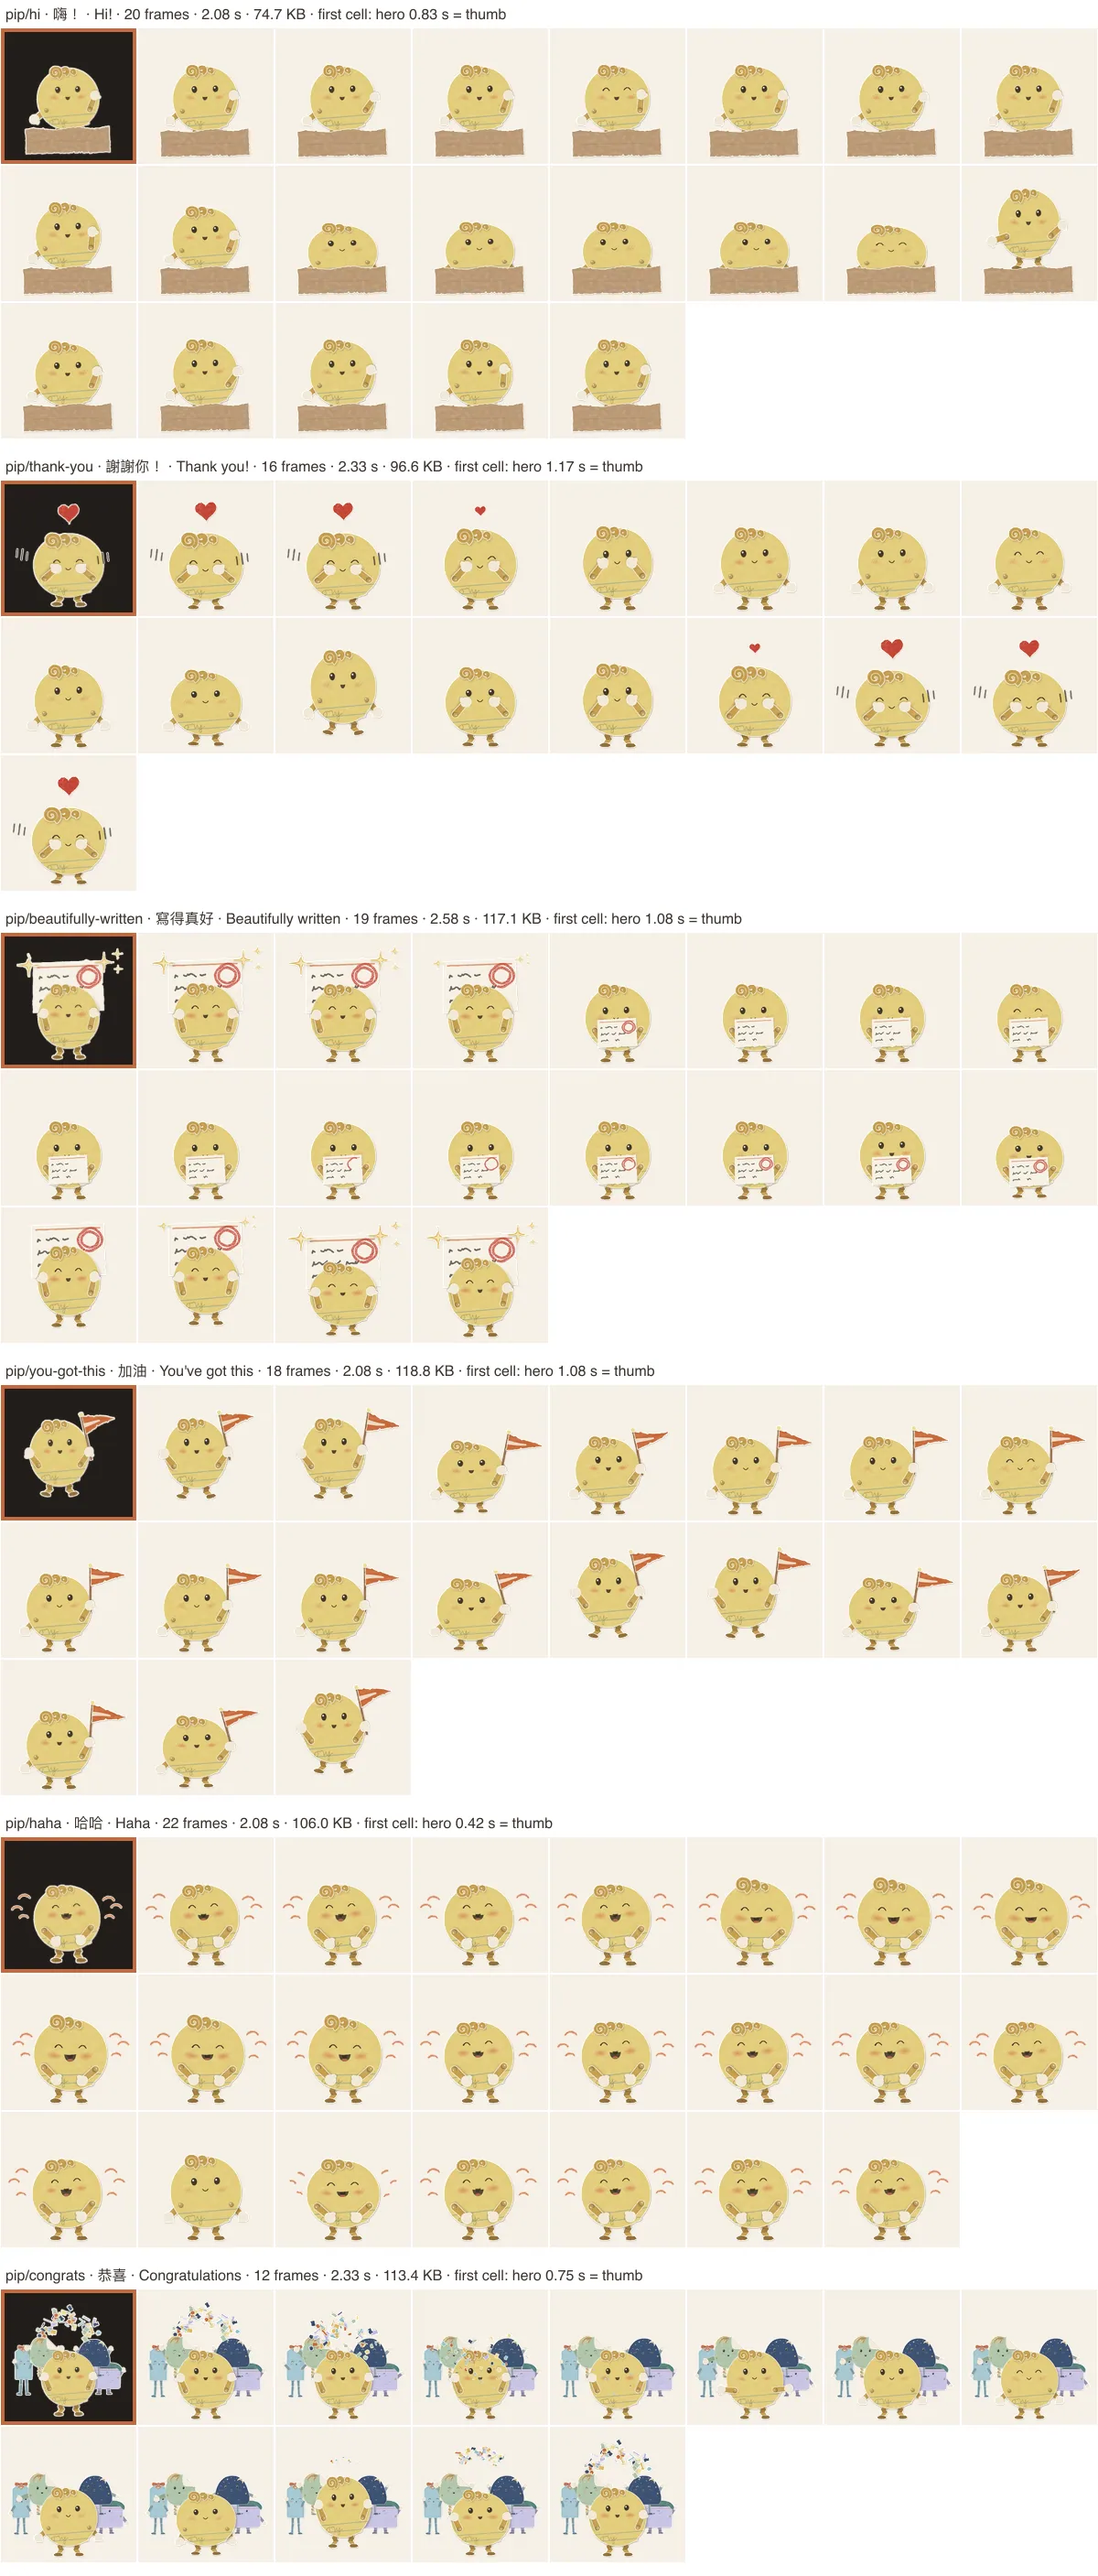
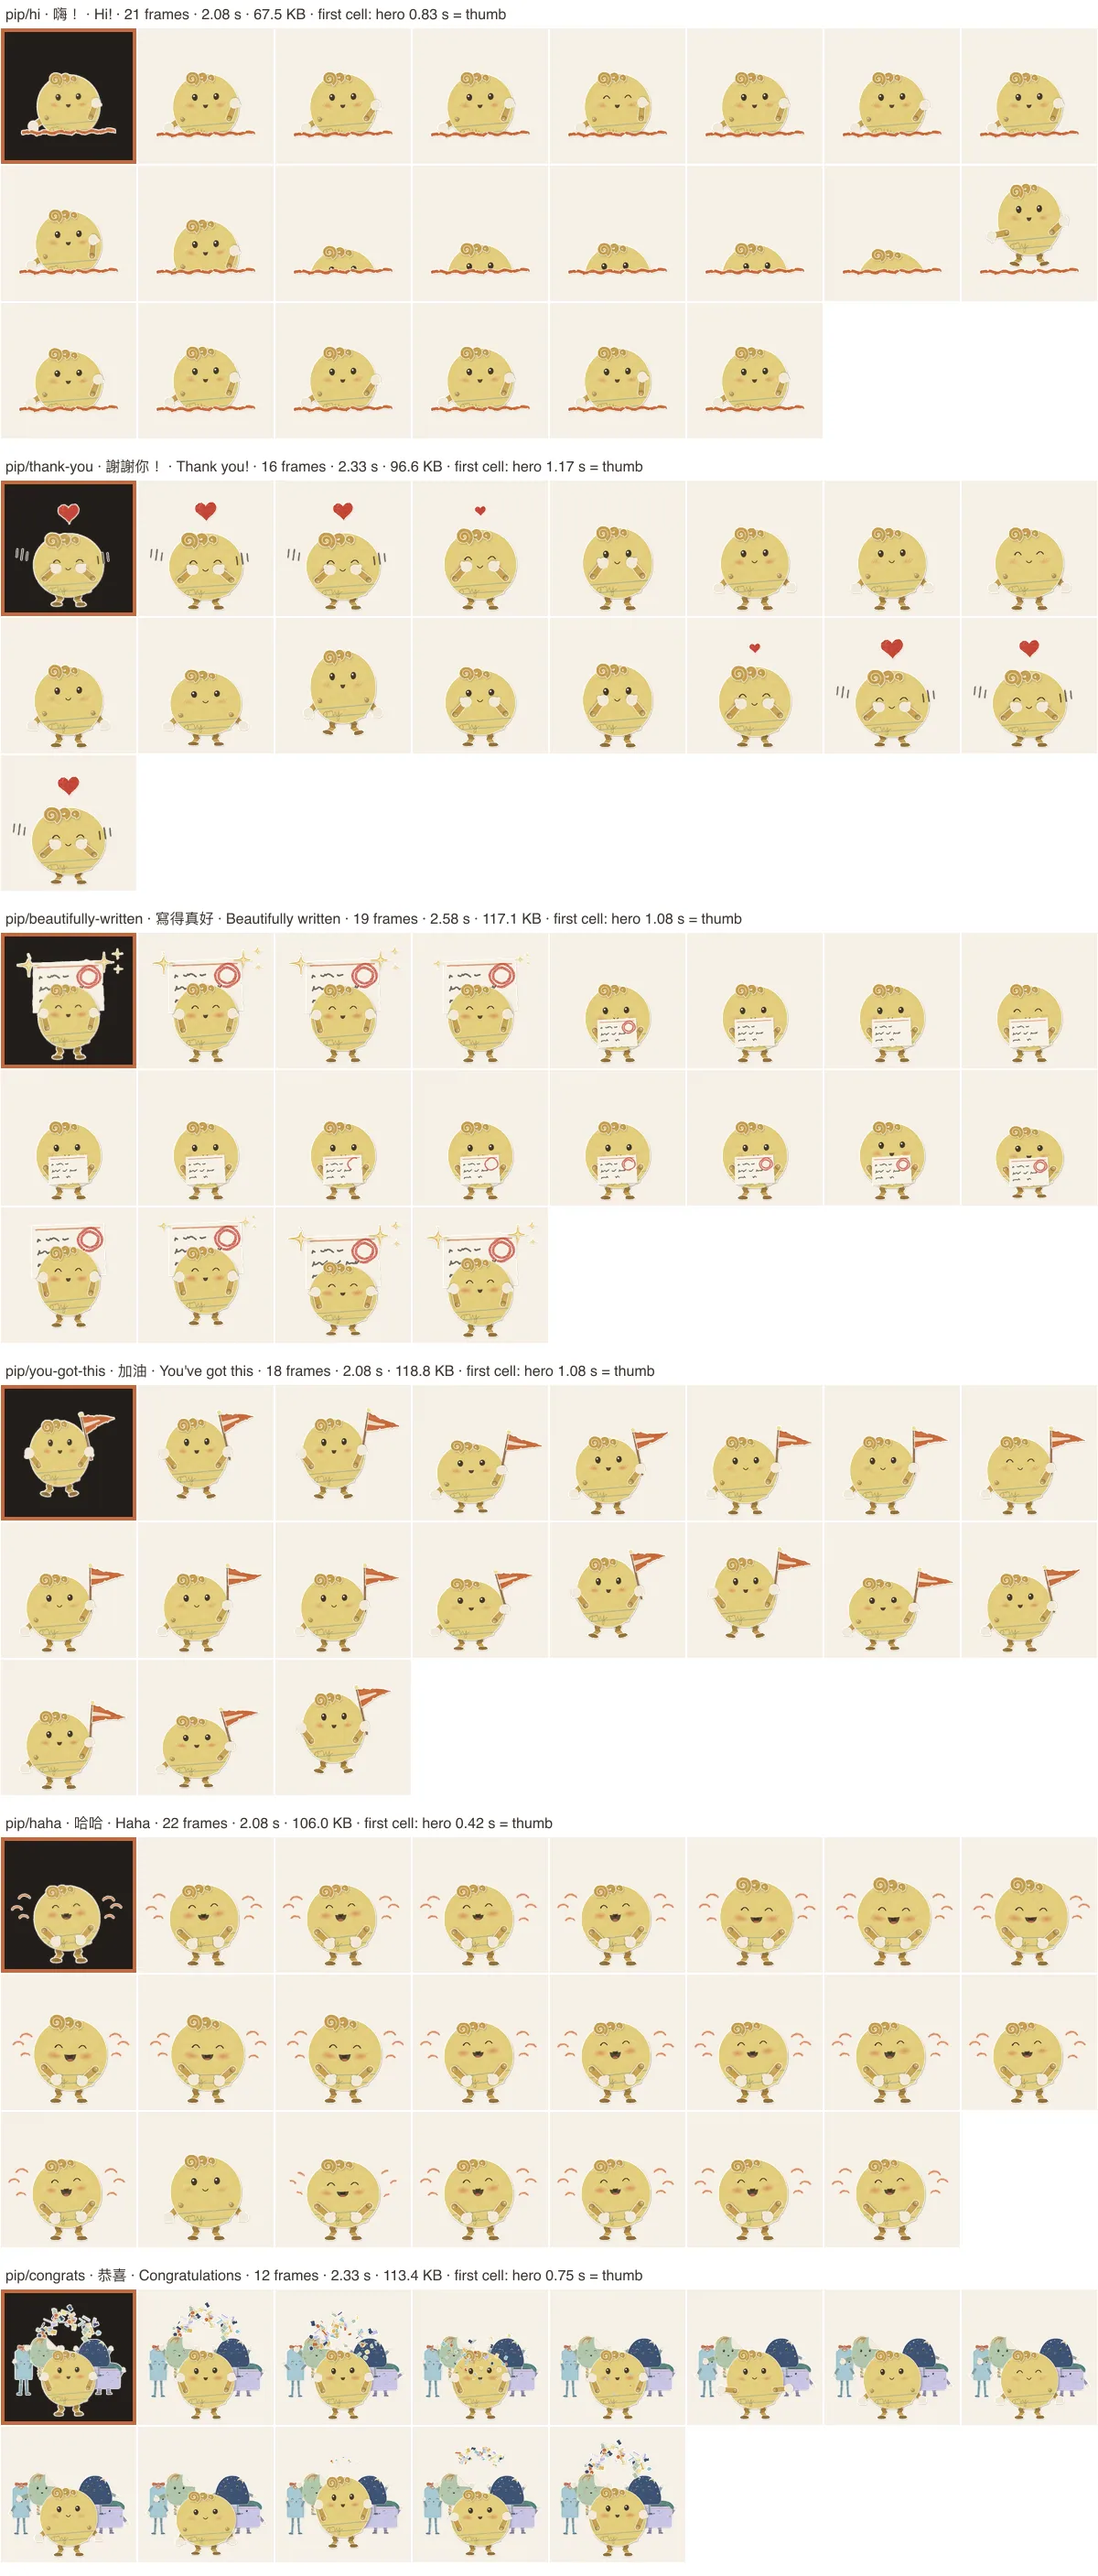
fix: 🌊 點點's 嗨！ rises out of the brand's wavy line instead of hiding behind a block
The owner asked for the cover to be much lower and smaller, or for 點點 to come out from behind a
line. Both were tried at 72 and 128 px on the day and night papers. A narrow low kraft strip hides
nothing: 點點 just stands on a little brick, and the pop-up is lost. The line keeps the pop-up: the
brand's wavy line, a thin strip of terracotta paper (penWavePoints' rhythm), with 點點 clipped
below it, so its curls and eyes peek over the line, it springs up out of it (legs and all), lands
with the line across the foot of its paper and waves one mitten high, then sinks back to peeking.
No block of colour is left in the sticker.

_local.ts: WAVE_LINE (the paper line) and clipBelow (a clip-path on the puppet below a line, in its
own coordinates); the kraft strip is gone. 67.5 KB, hero fr(10).

diff --git a/designs/stickers/pip/hi.ts b/designs/stickers/pip/hi.ts
@@ -1,53 +1,59 @@
 /**
- * 點點 · 嗨！ Hi! — standing behind a low kraft strip it ducks down until only its eyes and curls are over the edge,
- * looks about, and springs up: lands standing tall and waves one mitten high, mouth open. Key pose: ducked behind the
- * strip, peeking.
+ * 點點 · 嗨！ Hi! — it rises out of a wavy line (the brand's, a thin strip of terracotta paper; 點點 is clipped below
+ * it): its curls and eyes peek over the line, looking about, then it springs up out of it, lands with nearly all its
+ * paper above the line and waves one mitten high, mouth open; then it sinks back to peeking. Key pose: peeking over the
+ * line.
  *
- * The body moves on 8 frames (the crouch, the spring, the landing and settle, the duck and its settle); the waving
- * arm, the eyes and the mouth carry the rest.
+ * The body moves on 8 frames (the dip, the spring, the landing and settle, the sink and its settle); the waving arm,
+ * the eyes and the mouth carry the rest.
  */
 import { blink, defineSticker, fr } from '../kit';
-import { KRAFT_STRIP, pick } from './_local';
+import { clipBelow, pick, WAVE_LINE } from './_local';
 
-const K = 1.08;
-/** Its feet behind the strip, ducked; standing it rises STAND rig units. */
-const FEET = 406;
-const STAND = 34;
+const K = 1.1;
+/** The line across the sticker, px; standing, 點點's feet are hidden below it, the line across the foot of its paper. */
+const LINE = 340;
+const FEET = LINE + 58;
+/** Peeking, it sinks this many rig units (its eyes just over the line). */
+const PEEK = -100;
 
 export default defineSticker({
   duration: 2,
-  // the thumb: standing tall, one mitten up waving, mouth open
+  // the thumb: up out of the line, one mitten high waving, mouth open
   hero: fr(10),
-  cast: { pip: { slug: 'dot', x: 214, ground: FEET, k: K, z: 10 } },
-  props: { strip: { kind: KRAFT_STRIP, seed: 3, z: 100 } },
-  frame(t, { pip }, { strip }) {
+  cast: { pip: { slug: 'dot', x: 216, ground: FEET, k: K, z: 10 } },
+  props: { line: { kind: WAVE_LINE, seed: 5, z: 100 } },
+  frame(t, { pip }, { line }) {
     const p = pip.pose;
-    // ducked (0) → crouch (f4) → spring up (f5) → land standing (f6), settle (f7–8) … duck (f18–20)
-    p.rise += pick(t, [[0, 0], [fr(5), 66], [fr(6), STAND], [fr(18), STAND - 4], [fr(19), 0]]);
-    const sq = pick(t, [[0, -1], [fr(4), -1.4], [fr(5), 0.9], [fr(6), -0.3], [fr(7), 0.12], [fr(8), 0], [fr(18), -0.3], [fr(19), -1.2], [fr(20), -1]]);
-    p.sy *= 1 + 0.13 * Math.min(0, sq) + 0.07 * Math.max(0, sq);
-    p.sx *= 1 - 0.06 * Math.min(0, sq) - 0.04 * Math.max(0, sq);
+    // peeking (0) → dips (f3) → springs up out of the line (f4) → lands (f5), settles (f6–7) … sinks (f18–20)
+    p.rise += pick(t, [[0, PEEK], [fr(3), PEEK - 8], [fr(4), 66], [fr(5), 0], [fr(18), -32], [fr(19), PEEK - 6], [fr(20), PEEK]]);
+    const sq = pick(t, [[0, 0], [fr(3), -0.8], [fr(4), 0.9], [fr(5), -0.5], [fr(6), 0.12], [fr(7), 0], [fr(18), 0.3], [fr(19), -0.4], [fr(20), 0]]);
+    p.sy *= 1 + 0.08 * sq;
+    p.sx *= 1 - 0.045 * sq;
     p.legS *= 1 + 0.12 * Math.min(0, sq);
-    p.decoR += pick(t, [[0, 0], [fr(4), 3], [fr(5), -8], [fr(6), 6], [fr(7), -2], [fr(8), 0], [fr(19), 5], [fr(20), 0]]);
-    const up = pick(t, [[0, 0], [fr(5), 1], [fr(19), 0]]) > 0;
-    // the wave: the right mitten up high and waving (in front of its paper, or the short arm would hide behind it),
-    // the left one resting at its side
+    p.legL += pick(t, [[0, 0], [fr(4), 12], [fr(5), 0]]);
+    p.legR -= pick(t, [[0, 0], [fr(4), 12], [fr(5), 0]]);
+    p.decoR += pick(t, [[0, 0], [fr(3), 3], [fr(4), -8], [fr(5), 6], [fr(6), -2], [fr(7), 0], [fr(18), -4], [fr(19), 5], [fr(20), 0]]);
+    const up = pick(t, [[0, 0], [fr(4), 1], [fr(19), 0]]) > 0;
     if (up) {
+      // the right mitten up high and waving (in front of its paper, or the short arm would hide behind it), the left
+      // one out a little
       const f = Math.round(t * 12);
-      const wag = f >= 7 && f < 18 ? [0, 1, 0, -1][f % 4] : 0;
-      p.liftR = pick(t, [[0, 130], [fr(6), 160]]) + 15 * wag;
+      const wag = f >= 6 && f < 18 ? [0, 1, 0, -1][f % 4] : 0;
+      p.liftR = pick(t, [[0, 130], [fr(5), 160]]) + 15 * wag;
       p.front = true;
-      p.liftL = pick(t, [[0, 75], [fr(6), 52]]);
+      p.liftL = pick(t, [[0, 80], [fr(5), 58]]);
       p.mouth = 'mouth-open';
       p.blush = 0.8;
     } else {
-      // peeking: eyes over the edge, looking about
-      p.faceY -= 4;
-      p.faceX += pick(t, [[0, -7], [fr(2), 7], [fr(4), 0], [fr(21), -7]]);
+      // peeking: eyes over the line, looking about
+      p.faceY -= 5;
+      p.faceX += pick(t, [[0, -7], [fr(2), 7], [fr(3), 0], [fr(20), 0], [fr(21), -7]]);
       p.blush = 0.4;
     }
-    if (pick(t, [[0, 0], [fr(4), 1], [fr(5), 0]])) p.eyes = 'shut';
+    if (pick(t, [[0, 0], [fr(3), 1], [fr(4), 0]])) p.eyes = 'shut';
     blink(pip, t, fr(13), fr(1));
-    strip.at(214, 411, { k: 0.95, anchor: 'base', sx: 0.8, rot: -1.5 });
+    line.at(216, LINE, { k: 1.04, rot: -1 });
+    clipBelow(pip, LINE);
   },
 });

diff --git a/designs/stickers/pip/_local.ts b/designs/stickers/pip/_local.ts
@@ -3,8 +3,9 @@
  * stop-motion value helper, and props drawn in the kit's paper and registered under `pip-` kinds for this pack's
  * stickers alone (each sticker is bundled on its own, so nothing here reaches another pack).
  */
-import { PROP_KINDS, type PropKind, type PropState } from '../kit';
-import { F, INK, path, pencil, poly, scribble, smoothPath, tear, type Pt } from '../kit/paper';
+import { PROP_KINDS, type PropKind, type PropState, type StickerPuppet } from '../kit';
+import { F, INK, path, pencil, poly, scribble, smoothPath, spline, tear, type Pt } from '../kit/paper';
+import { penWavePoints } from '../../../src/lib/design/wavyPath';
 import { clamp } from '../../../src/lib/mascots/geometry';
 
 /**
@@ -44,26 +45,6 @@ function register(name: string, def: LocalKind): PropKind {
   (PROP_KINDS as unknown as Record<string, LocalKind>)[name] = def;
   return name as PropKind;
 }
-
-/** The kraft paper of a parcel or a paper bag: 點點's own ground to hide behind (摺摺's sage is his). */
-export const KRAFT = 'oklch(70% 0.065 68)';
-
-/**
- * A low torn strip of kraft paper standing along the sticker's foot, for 點點 to duck behind and pop up from: its top
- * edge torn, one faint pencil rule. Half the kit's `ground` tall at the same k.
- */
-export const KRAFT_STRIP = register('pip-kraft-strip', {
-  size: [400, 110],
-  anchors: { center: [200, 58], top: [200, 14], base: [200, 102] },
-  draw(seed) {
-    const top: Pt[] = [];
-    for (let x = 10; x <= 390; x += 18) top.push([x, 16 + Math.sin(x * 0.034 + seed) * 4.5]);
-    const strip = tear(poly([...top, [390, 102], [10, 102]], 6), seed, { jag: 1.1, wander: 4 });
-    const rule = pencil([[30, 62], [200, 60], [370, 63]], seed + 1, 1, 0.4);
-    return `${paper(path(strip), KRAFT)}
-      <g stroke="oklch(48% 0.05 60)" stroke-width="1.4" opacity="0.28" fill="none" filter="url(#${F}graphite)">${rule.map(d => `<path d="${d}"/>`).join('')}</g>`;
-  },
-});
 
 /**
  * A story card marked by a teacher: cream, three bold handwritten lines, and `draw` 0–1 drawing a red crayon double
@@ -139,3 +120,29 @@ export const LAUGH_MARKS = register('pip-laugh-marks', {
     }
   },
 });
+
+/**
+ * The brand's wavy line as a thin strip of terracotta paper (the pen rhythm of `penWavePoints`, src/lib/design): a
+ * line for 點點 to pop up from behind — it is clipped below it (`clipBelow`), so it rises out of the line itself rather
+ * than from behind a block of colour. The line's middle runs along y = 20 of its box; the waves stay within ±4.
+ */
+export const WAVE_LINE = register('pip-wave-line', {
+  size: [330, 40],
+  anchors: { center: [165, 20], left: [10, 20] },
+  draw(seed) {
+    const line = penWavePoints(310, seed, 3.2, 26).map(([x, y]) => [x + 10, y + 20] as const);
+    const fine = spline(line, 4, false);
+    const ribbon = [...fine.map(([x, y]) => [x, y - 4.8] as const), ...fine.slice().reverse().map(([x, y]) => [x, y + 4.8] as const)];
+    return paper(path(tear(ribbon, seed + 1, { jag: 0.35, wander: 0.6 })), INK.terracotta, 'thin');
+  },
+});
+
+/**
+ * Clips a puppet below a line across the sticker (px): nothing of it under y is drawn — 點點 rising out of the wavy
+ * line. Call it last in a frame (it reads the pose's rise); the clip is in the puppet's own coordinates, whose origin is
+ * its ground point lifted by its rise.
+ */
+export function clipBelow(p: StickerPuppet, y: number): void {
+  const oy = y - (p.y - p.pose.rise * p.k);
+  p.el.style.clipPath = `polygon(-2000px -2000px, 2000px -2000px, 2000px ${oy.toFixed(1)}px, -2000px ${oy.toFixed(1)}px)`;
+}
